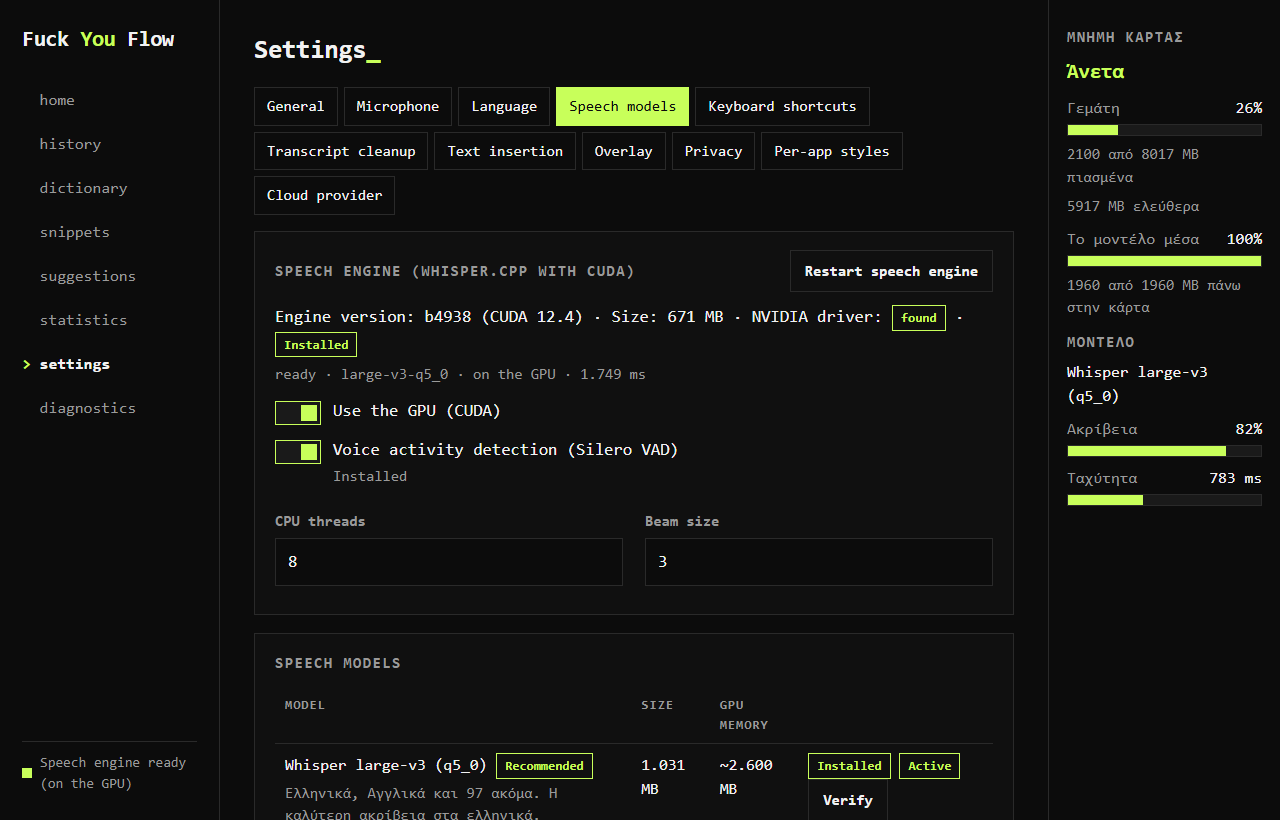
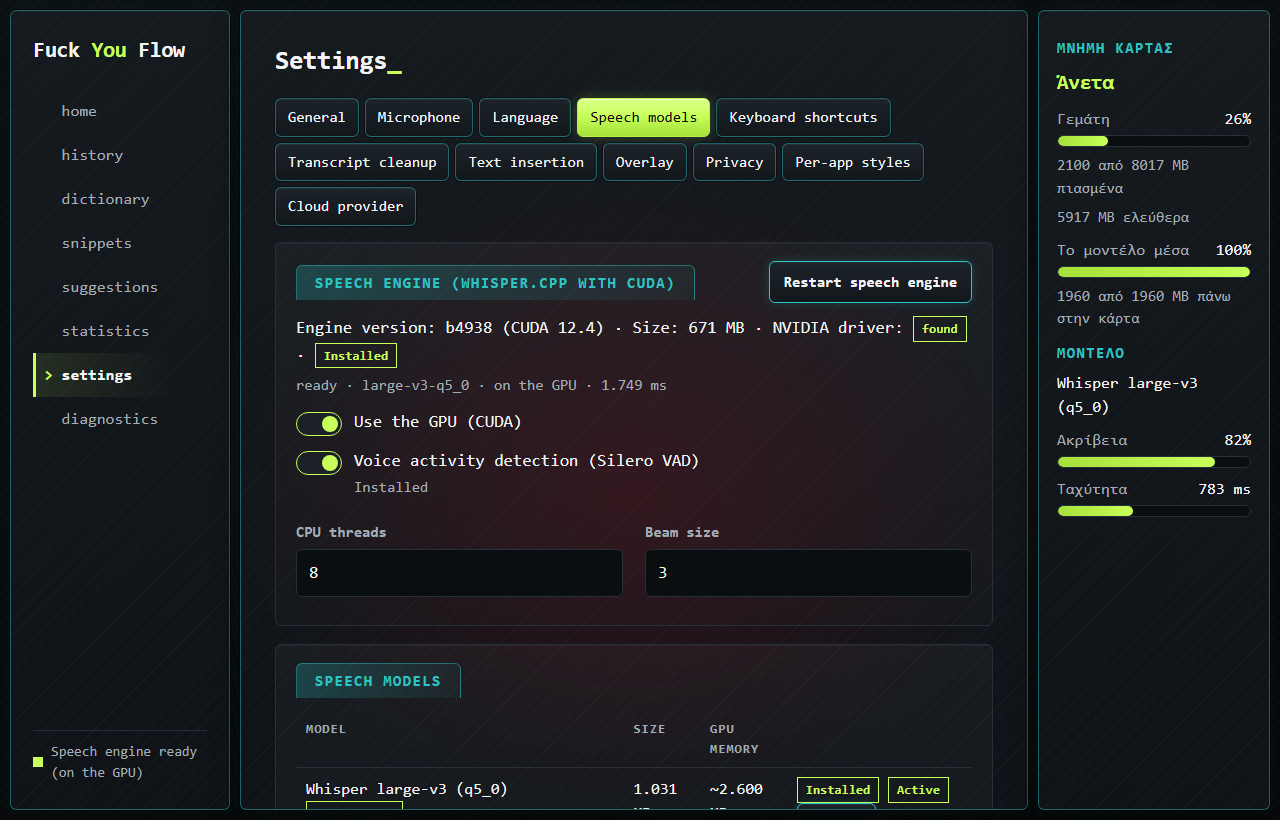
Carbon screenshots on the site; README, llms.txt and comparisons say 99 languages
README catches up with the site: languages, Help me choose, the paste receipt,
the two looks, release links. Three X-not-Y sentences rewritten.

diff --git a/site/llms_source.py b/site/llms_source.py
@@ -2,7 +2,7 @@
 
 LLMS = '''# FU Flow (Fuck You Flow)
 
-> Free, MIT-licensed dictation for Windows 10 and 11, focused on Greek and English. The default Whisper engine transcribes on the user's PC. No subscription, account or weekly word cap is required for local dictation. Version {ver} beta, made by Luram AI Agency in Thessaloniki, Greece.
+> Free, MIT-licensed dictation for Windows 10 and 11 in 99 languages, with Greek and English the most tested. The default Whisper engine transcribes on the user's PC. No subscription, account or weekly word cap is required for local dictation. Version {ver} beta, made by Luram AI Agency in Thessaloniki, Greece.
 
 Updated: {today}.
 
@@ -12,7 +12,7 @@ Updated: {today}.
 - Offline: local dictation works after setup without internet. The app separately checks online for updates.
 - Optional remote speech: selecting an OpenAI-compatible provider sends audio to that provider. Its charges and privacy terms apply.
 - Text and history: transcripts and dictionary rules are stored locally. Pasted text is also available to the destination program, which may store or upload it.
-- Languages: Greek and English, with dictionary corrections and snippets. Recognition can make mistakes.
+- Languages: 99 through Whisper, detected automatically, or locked to one of thirty-three in Settings. Greek and English are the most tested, including mixed sentences. Dictionary corrections and snippets work in any language. Recognition can make mistakes.
 - Platform: Windows only. Beta compatibility and performance vary with applications, models, hardware and drivers.
 - Speed: four maker observations on an RTX 3070 showed 0.17 to 0.88 seconds of wait after dictation. No independent head-to-head Wispr Flow benchmark is claimed.
 - Price: the released local app is free under MIT. Third-party services, if selected, can have separate fees.

diff --git a/site/comparisons_source.py b/site/comparisons_source.py
@@ -12,7 +12,7 @@ COMPARISONS = [
         "lang": "en",
         "title": "OpenWhispr Alternative for Windows: Local Dictation",
         "description": "Compare FU Flow and OpenWhispr for free local dictation: Windows setup, Greek and English, model downloads, cloud cleanup and practical switching checks.",
-        "lead": "OpenWhispr and FU Flow both offer free local dictation. The useful choice is the workflow you need: a Windows dictation beta focused on Greek and English, or a broader cross-platform tool.",
+        "lead": "OpenWhispr and FU Flow both offer free local dictation. The useful choice is the workflow you need: a Windows dictation beta in 99 languages with Greek and English the most tested, or a broader cross-platform tool.",
         "body": f'''<div class="cta"><a class="btn btn-acid" href="{DL}">Try FU Flow for Windows</a><a class="btn btn-coral" href="https://openwhispr.com/">Visit OpenWhispr</a></div>
 <p>We make FU Flow at Luram AI Agency in Thessaloniki. This comparison uses our application source and OpenWhispr's official documentation, checked on 8 September 2026. Competitor details come from those documents alone.</p>
 <h2>What changes if you choose FU Flow?</h2>

diff --git a/site/build_content.py b/site/build_content.py
@@ -160,7 +160,7 @@ def comparison():
 <tr><td>Speech processing</td><td>Cloud processing</td><td>On your PC by default</td></tr>
 <tr><td>Offline dictation</td><td>Internet required for cloud processing</td><td>Works with the bundled local models</td></tr>
 <tr><td>Platforms</td><td>Windows, macOS, iPhone and Android</td><td>Windows 10 and 11</td></tr>
-<tr><td>Languages</td><td>100+ languages</td><td>Focused on Greek and English</td></tr>
+<tr><td>Languages</td><td>100+ languages</td><td>99 languages, Greek and English the most tested</td></tr>
 <tr><td>Account for local dictation</td><td>Wispr account</td><td>No account or API key</td></tr>
 <tr><td>Product scope</td><td>Dictation, team features and a Mac notetaker</td><td>Dictation, local history, dictionary and snippets</td></tr>
 </tbody></table></div>

diff --git a/press/make_shots.py b/press/make_shots.py
@@ -125,7 +125,7 @@ def shell(lang, active, body, status="Speech engine ready (on the GPU)", chip="r
     items = "".join(
         f'<button class="{"active" if n == active else ""}">{n}</button>' for n in NAV
     )
-    return f"""<!doctype html><html lang="{lang}"><head><meta charset="utf-8"><style>
+    return f"""<!doctype html><html lang="{lang}" data-theme="dark" data-skin="carbon"><head><meta charset="utf-8"><style>
 {CSS}
 html,body{{width:{W}px;height:{H}px;overflow:hidden}}
 </style></head><body><div class="layout">

diff --git a/README.md b/README.md
@@ -1,62 +1,111 @@
 # Fuck You Flow
 
-Dictation for Windows that runs entirely on your own machine. Hold a key, speak,
-and the text lands wherever your cursor is: Word, Chrome, Slack, a terminal,
-anywhere. Greek and English are first class, mixed in the same sentence too.
+Free, open-source dictation for Windows 10 and 11. English, Greek and 97 more
+languages, detected automatically, or locked to your own language in Settings.
+Press Right Alt, speak, then press it again to insert text into a compatible
+Windows text field. The default Whisper engine processes speech on your own PC.
 
-Nothing leaves the computer. No account, no subscription, no server, no
-internet connection required after setup.
+Local dictation works offline after setup, with no account, subscription or word
+cap. An optional remote speech provider sends audio to the provider you configure;
+its fees and privacy terms apply. The app also checks online for updates, and
+destination apps can store or upload text you insert into them.
 
-Free and open source, from [Luram AI Agency](https://luram.gr).
+Made by [Luram AI Agency](https://luram.gr) in Thessaloniki, Greece. Beta, under MIT.
+The [latest release](https://github.com/Breakzoras/fuck-you-flow/releases/latest)
+and the [changelog](https://fuckyouflow.app/changelog/) list what changed.
 
-![Home](press/shots/1-home.png)
+- [Official website and Windows download](https://fuckyouflow.app/)
+- [Ελληνική σελίδα και λήψη](https://fuckyouflow.app/el/)
+- [FU Flow vs Wispr Flow](https://fuckyouflow.app/wispr-flow-alternative/)
+  and [FU Flow vs OpenWhispr](https://fuckyouflow.app/openwhispr-alternative/)
+- [Free offline dictation alternatives](https://fuckyouflow.app/free-offline-dictation-alternatives/)
+- [Which Whisper model to use](https://fuckyouflow.app/guides/choose-a-model/),
+  the in-app Help me choose rule in writing
+- [Dictation guides](https://fuckyouflow.app/guides/),
+  [οδηγοί στα ελληνικά](https://fuckyouflow.app/el/guides/)
+  and [privacy and offline operation](https://fuckyouflow.app/privacy/)
+
+![Home](https://fuckyouflow.app/assets/1-home.png)
 
 ## Why it exists
 
-Commercial dictation apps charge a monthly fee, send the audio to a server, and
-treat Greek as an afterthought. The speech models that do Greek well have been
-free and open for two years. This puts them behind a key on your keyboard.
+We wanted a free Windows workflow for local dictation, starting with Greek and English, with a
+hotkey, editable dictionary and no recurring charge for the local engine. FU Flow
+builds that workflow around openly released Whisper models and whisper.cpp.
+
+Other dictation products offer different platforms, models and features. FU Flow
+is an independent project; the sourced comparisons above explain the tradeoffs
+without claiming to replace every competitor feature.
 
 ## What you get
 
 - **Right Alt starts, Right Alt stops.** Press, speak, press again. The text is
-  inserted where the cursor was. Escape cancels.
-- **Text appears in well under a second**, even after two minutes of speech: the
-  engine transcribes each finished phrase while you are still talking, so only
-  the last sentence is left when you stop.
-- **Greek and English**, and both in the same sentence.
-- **Cleanup that respects the meaning.** Filler words go, spoken self-corrections
-  ("Τρίτη, όχι όχι, Παρασκευή") are applied, and question marks are added from
-  the wording using a rule set built from Greek grammar sources.
-- **A dictionary that learns.** Correct a word once in History and it becomes a
-  rule; names and technical terms come out right from then on.
+  inserted through the normal Windows paste workflow. Escape cancels. Ctrl+Win
+  remains available for hold-to-talk, and shortcuts can be changed in Settings.
+- **Transcription while you speak.** Finished phrases are processed during
+  recording to reduce the work left when you stop. The remaining wait depends on
+  the model, speech, hardware, drivers and available memory.
+- **99 languages.** Whisper detects the language on its own, or you pick yours from
+  thirty-three in Settings so it never drifts into another one. Greek and English
+  are the most tested, including English words inside Greek sentences. Review
+  names and punctuation; recognition can make mistakes.
+- **Help me choose.** Two questions (your language, what matters most) plus your
+  graphics card memory pick one model, marked Best for you. The same rule is
+  written out in the [model guide](https://fuckyouflow.app/guides/choose-a-model/).
+- **A paste that checks it arrived.** When nothing takes the words within a second,
+  Ctrl+V is pressed once more; if that fails too, the words stay on the clipboard.
+  In Chrome, Edge, Claude, Slack and other programs built on Chromium the words
+  always stay on the clipboard after pasting, one Ctrl+V away.
+- **Two looks for the dark theme.** Carbon, the default, adds depth with still
+  gradients and shadows; Classic is the original flat black. Neither adds work for
+  the graphics card. A light theme is also available.
+- **Rule-based cleanup.** Rules can remove filler words, apply spoken corrections
+  such as "Τρίτη, όχι όχι, Παρασκευή", and add question marks from the wording.
+  They can misinterpret speech, so review the result before sharing it.
+- **A dictionary you control.** Save recurring corrections as editable rules.
+  When learning from edits is enabled, suitable History edits produce suggestions
+  you can accept or dismiss. This does not retrain Whisper or guarantee that a
+  word will always be recognized correctly.
 - **Snippets.** Say a phrase, get a block of text.
 - **History, statistics and per-application styles**, all on your disk.
-- **Nothing is sent anywhere.** A password field is detected and refused. An
-  optional cloud provider exists and is off.
+- **Local speech processing by default.** The local adapter talks to an engine
+  process on the same PC. Selecting the optional remote provider uploads the audio
+  to that provider. The app attempts to reject detected password fields; some
+  sensitive fields may still go unrecognised.
 
-![Dictionary](press/shots/3-dictionary.png)
+Some applications, protected documents or elevated windows can refuse automatic
+paste. Copy the transcript from History and paste it manually if needed. Local
+history and clipboard contents can be read by someone with access to the PC;
+local recognition does not make a cloud document or conversation offline.
+
+![Dictionary](https://fuckyouflow.app/assets/3-dictionary.png)
 
 ## Install
 
 Download the installer from
-[Releases](https://github.com/Breakzoras/fuck-you-flow/releases) and run it. It needs
-no administrator rights and about 1.7 GB of disk.
+[Releases](https://github.com/Breakzoras/fuck-you-flow/releases) and run it. The
+full installer is about **1.7 GB to download**, including the speech models.
+That is the download size. Allow additional
+space for installation, local models, history and updates. The installer uses
+per-user installation mode.
 
-Windows shows a blue "Windows protected your PC" dialog because the installer
-carries no purchased signature. Click "More info", then "Run anyway".
+The beta installer is unsigned, so Windows may show a "Windows protected your PC"
+dialog. Use the linked project release and compare its published SHA256 checksum
+before deciding whether to continue through "More info" and "Run anyway".
 
-The installer carries everything: the speech engine built with the Vulkan
-backend (it runs on AMD, Intel and NVIDIA cards, and on the processor when there
-is no card), both speech models, and the voice activity detector. The first
-start reads the machine, picks the model that fits the graphics memory and the
-thread count that fits the processor, and the Speech models tab in Settings
-shows what it found.
+The full installer includes the Vulkan speech engine, large-v3 and turbo models,
+and the voice activity detector. Supported AMD, Intel and NVIDIA cards can use
+Vulkan; a CPU fallback is available. Compatibility and speed vary by device and
+driver. Initial setup examines the machine to select a model and thread count;
+review the selection in the Speech models tab in Settings.
+
+The app checks for available updates after startup. Downloading an update waits
+for your choice. Local dictation does not require a successful update check.
 
 ## Speed
 
-Measured on an RTX 3070 with `large-v3-q5_0`, from the moment the key is
-released to the text appearing:
+Four recorded maker observations on an RTX 3070 with `large-v3-q5_0`, measuring
+the wait after finishing dictation until text appeared:
 
 | Words | Speech | Wait |
 |---:|---:|---:|
@@ -65,27 +114,32 @@ released to the text appearing:
 | 179 | 77 s | 0.53 s |
 | 312 | 152 s | 0.88 s |
 
-The wait depends on the length of the last phrase only. A short pause before
-pressing the key again gives the fastest result.
+These are the maker's own measurements on one PC. They make no claim about Wispr
+Flow, OpenWhispr or any other product, and results on other PCs will differ.
+The last phrase is one source of remaining work; total recording length, model
+state, memory pressure and other running applications can also affect the wait.
+See the [model benchmark summary](eval/bench-summary.md) for separate recognition
+accuracy and processing-time measurements on the project's test corpus.
 
-Engine comparison on the same card and phrase (5 s of Greek, `large-v3-q5_0`):
-Vulkan 593 ms, CUDA 663 ms, processor alone 12.5 s. Vulkan is what ships, so an
-AMD or Intel card gets the same speed as an NVIDIA one; a machine with no card
-at all falls back to the processor and the turbo model.
+An earlier engine comparison on that machine used one 5-second Greek phrase with
+`large-v3-q5_0`: Vulkan 593 ms, CUDA 663 ms, processor alone 12.5 s. Those figures
+describe that setup. Shipping Vulkan support does not establish equal speed on
+AMD, Intel and NVIDIA cards. A smaller model or CPU fallback has its own tradeoffs;
+test a short dictation on your machine before relying on it.
 
 ## Speaking well
 
-Speed is fine: 68 to 158 words per minute all transcribed correctly in testing.
-What helps most:
+Speak at a comfortable pace and check the transcript. Microphone quality, noise,
+pronunciation and model choice affect recognition. Practical things to try:
 
-- A half-second pause at the end of each sentence. It gives correct punctuation
-  and speed at the same time.
-- Pronounce the last word of a sentence fully. Swallowed endings are the first
-  thing that breaks Greek text.
+- A short pause between sentences can help the engine separate phrases. It does
+  not guarantee punctuation or a particular processing time.
+- Pronounce the last word of a sentence fully, especially Greek word endings.
 - Names and foreign words: say them clearly and in one piece.
-- A question with no question word gets its mark from the rise of your voice;
-  say "ερωτηματικό" to force one.
-- To fix yourself mid-sentence: "όχι όχι" and then the right word.
+- Check question marks after dictation. You can try saying "ερωτηματικό" as an
+  explicit punctuation command, then review the result.
+- With self-correction cleanup enabled, try "όχι όχι" followed by the right word.
+  Check that the intended correction was applied.
 
 ## Build it yourself
 
@@ -105,7 +159,7 @@ development binary that looks for the interface on a dev server.
 - [docs/USER-GUIDE.md](docs/USER-GUIDE.md) in Greek
 - [docs/ARCHITECTURE.md](docs/ARCHITECTURE.md)
 - [docs/THREAT-MODEL.md](docs/THREAT-MODEL.md)
-- [docs/QUESTION-RULES.md](docs/QUESTION-RULES.md), the Greek grammar rules
+- [docs/QUESTION-RULES.md](docs/QUESTION-RULES.md), the Greek question-mark rules
 - [docs/KNOWN-LIMITATIONS.md](docs/KNOWN-LIMITATIONS.md), read this before
   reporting a bug
 - [docs/THIRD-PARTY-NOTICES.md](docs/THIRD-PARTY-NOTICES.md)
@@ -121,5 +175,5 @@ and Greek words the dictionary should know.
 MIT. See [LICENSE](LICENSE). The speech engine and the models carry their own
 licenses, listed in the third-party notices.
 
-This is a clean-room implementation. It contains no code, assets or branding
-from any other dictation product.
+FU Flow is independent of Wispr Flow and OpenWhispr. Third-party components retain
+their own licenses and attribution requirements.
